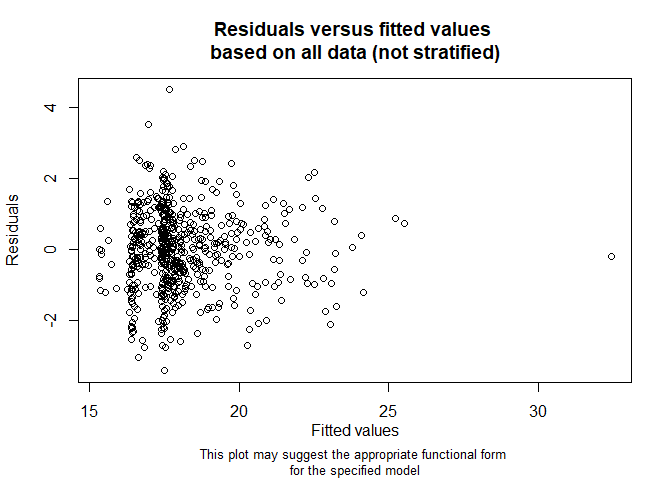
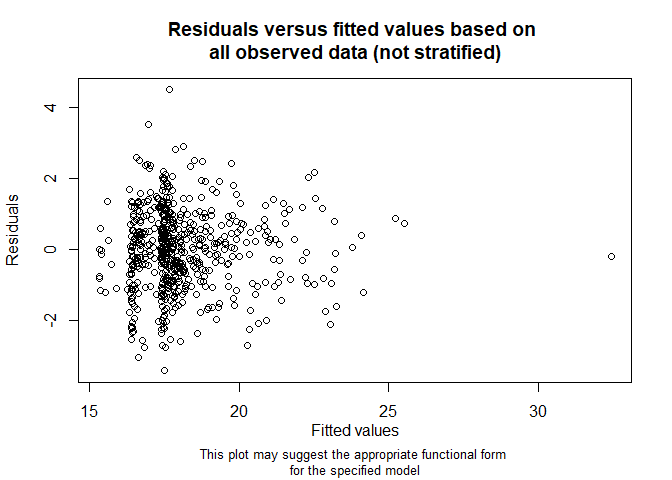
Updated documentation and website in line with minor changes to functions

Changed region(s): [[0.25, 0.0312, 0.8125, 0.125]]

diff --git a/README.md b/README.md
@@ -63,13 +63,13 @@ remotes::install_github("elliecurnow/midoc")
 library(midoc)
 
 head(bmi)
-#>       bmi7      matage mated pregsize      bwt r
-#> 1 15.16444 -1.30048035     0        0 3.287754 1
-#> 2 18.00250 -0.33689915     0        0 3.770346 1
-#> 3       NA -0.22673432     0        1 3.022161 0
-#> 4       NA  0.81459107     1        0 3.103251 0
-#> 5 17.97791 -0.55260086     0        0 3.830381 1
-#> 6       NA -0.03829346     1        0 2.775282 0
+#>       bmi7      matage            mated  pregsize      bwt          r
+#> 1 15.16444 -1.30048035  No post-16 qual Singleton 3.287754   Complete
+#> 2 18.00250 -0.33689915  No post-16 qual Singleton 3.770346   Complete
+#> 3       NA -0.22673432  No post-16 qual     Twins 3.022161 Incomplete
+#> 4       NA  0.81459107 Has post-16 qual Singleton 3.103251 Incomplete
+#> 5 17.97791 -0.55260086  No post-16 qual Singleton 3.830381   Complete
+#> 6       NA -0.03829346 Has post-16 qual Singleton 2.775282 Incomplete
 
 descMissData(y="bmi7", covs="matage mated", data=bmi, plot=TRUE)
 ```
@@ -196,7 +196,7 @@ descMissData(y="bmi7", covs="matage mated", data=bmi, plot=TRUE)
     #> Method used to explore model specification: regression of model
     #> residuals (y) on a fractional polynomial of the fitted values
     #> (fitvals). If stratification variable(s) are specified, results are
-    #> subsetted by the values of the factor(s).
+    #> subsetted by the values of these variable(s).
     #> 
     #> Call:
     #> 
@@ -231,6 +231,27 @@ descMissData(y="bmi7", covs="matage mated", data=bmi, plot=TRUE)
     #> Consider whether the specified model is plausible for your study, and
     #> update it accordingly.  Note that the observed relationships may be
     #> distorted by data missing not at random.
+    #> 
+    #> Note: This function explores the specification of your model.  In
+    #> addition, imputation models must be 'compatible' with the analysis
+    #> model. This means that imputation models must include all the same
+    #> variables in the same form as the analysis model.  Imputation models
+    #> may also contain additional, 'auxiliary', variables that are predictive
+    #> of the missing values.
+    #> 
+    #> Imputation models must include any interactions or non-linear terms
+    #> implied by the analysis model.  Imputation models for
+    #> partially-observed covariates in a survival analysis must include a
+    #> compatible form of the survival outcome - see, for example, the
+    #> 'approximately compatible' approach for Cox regression (White and
+    #> Royston, 2012; https://doi.org/10.1002/sim.3618); this method can be
+    #> implemented using 'mice::nelsonaalen()'.
+    #> 
+    #> If it is difficult to specify imputation models in a form that is
+    #> compatible with your analysis model, consider using an alternative
+    #> approach.  See, for example, the substantive model compatible approach
+    #> (Bartlett et al, 2015; https://doi.org/10.1177/0962280214521348); this
+    #> method can be implemented using 'smcfcs::smcfcs()'
 
 <img src="man/figures/README-unnamed-chunk-2-2.png" alt="Plot of residuals versus fitted values." width="100%" />
 
@@ -243,9 +264,9 @@ miprop <- proposeMI(mimodobj=mimod_bmi7, data=bmi)
 #> mice(data = bmi , # You may need to specify a subset of the columns in
 #> your dataset; if you specified stratification variable(s) in your
 #> proposed imputation model(s), these will be carried over to 'midoc'
-#> functions 'doMImice' and 'doMNARmice' and multiple imputation will be
+#> functions 'doMImice' and 'doMNARMImice' and multiple imputation will be
 #> performed for each subset of the data determined by the values of the
-#> stratification factor(s):
+#> stratification factor(s)
 #> 
 #> m = 41 , # You should use at least this number of imputations based on
 #> the proportion of complete records in your dataset
@@ -290,15 +311,15 @@ doMImice(miprop, 123, substmod="lm(bmi7 ~ matage + I(matage^2) + mated)")
 #> Given the substantive model: lm(bmi7 ~ matage + I(matage^2) + mated) ,
 #> multiple imputation estimates are as follows:
 #> 
-#>          term   estimate  std.error  statistic       df       p.value
+#>                    term   estimate  std.error  statistic       df       p.value
 #> 
-#> 1 (Intercept) 17.6607324 0.07126548 247.816079 233.1668 2.116834e-284
+#> 1           (Intercept) 17.6607324 0.07126548 247.816079 233.1668 2.116834e-284
 #> 
-#> 2      matage  1.1504545 0.05230345  21.995769 184.5081  1.863532e-53
+#> 2                matage  1.1504545 0.05230345  21.995769 184.5081  1.863532e-53
 #> 
-#> 3 I(matage^2)  0.8414975 0.03231752  26.038433 257.1270  4.754845e-74
+#> 3           I(matage^2)  0.8414975 0.03231752  26.038433 257.1270  4.754845e-74
 #> 
-#> 4      mated1 -1.0026194 0.10787751  -9.294054 159.1101  1.094881e-16
+#> 4 matedHas post-16 qual -1.0026194 0.10787751  -9.294054 159.1101  1.094881e-16
 #> 
 #>        2.5 %     97.5 %   conf.low  conf.high
 #> 
